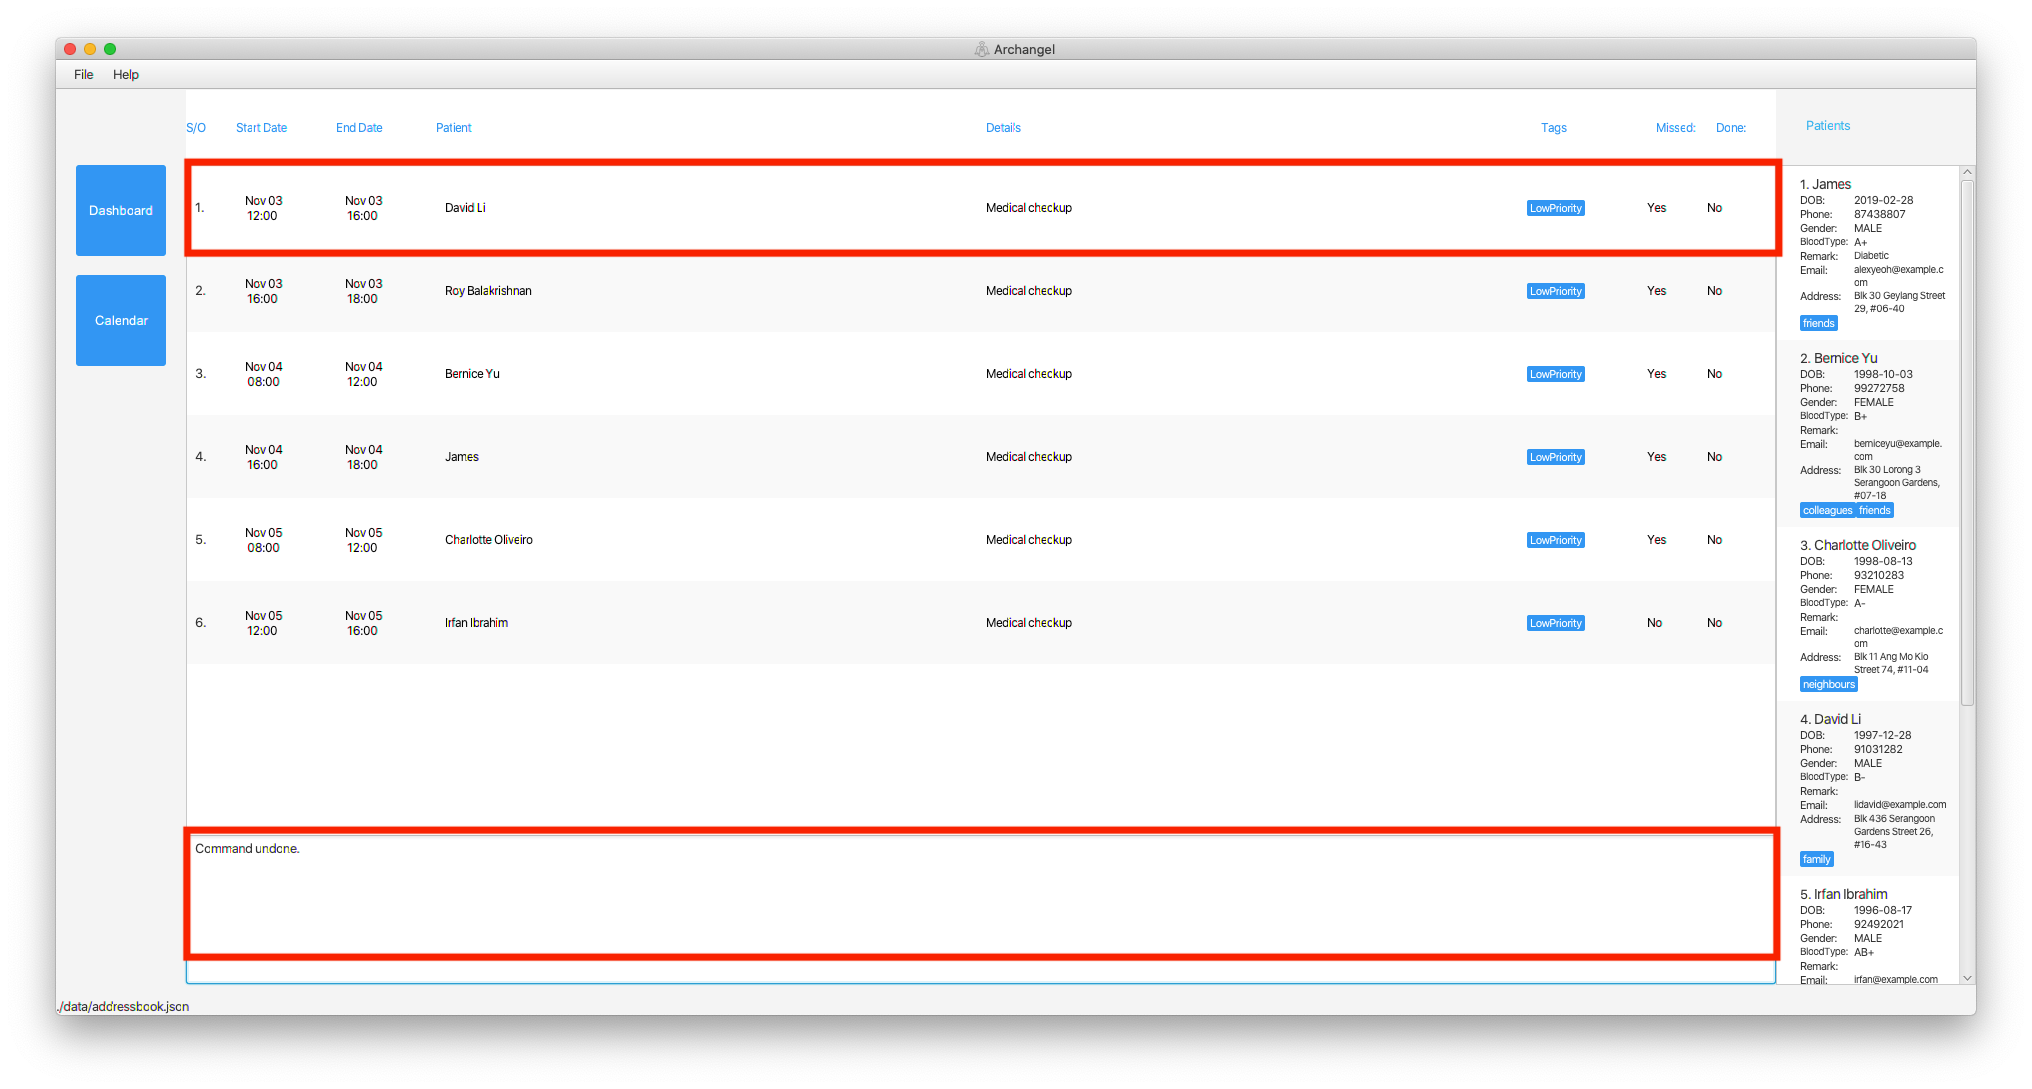
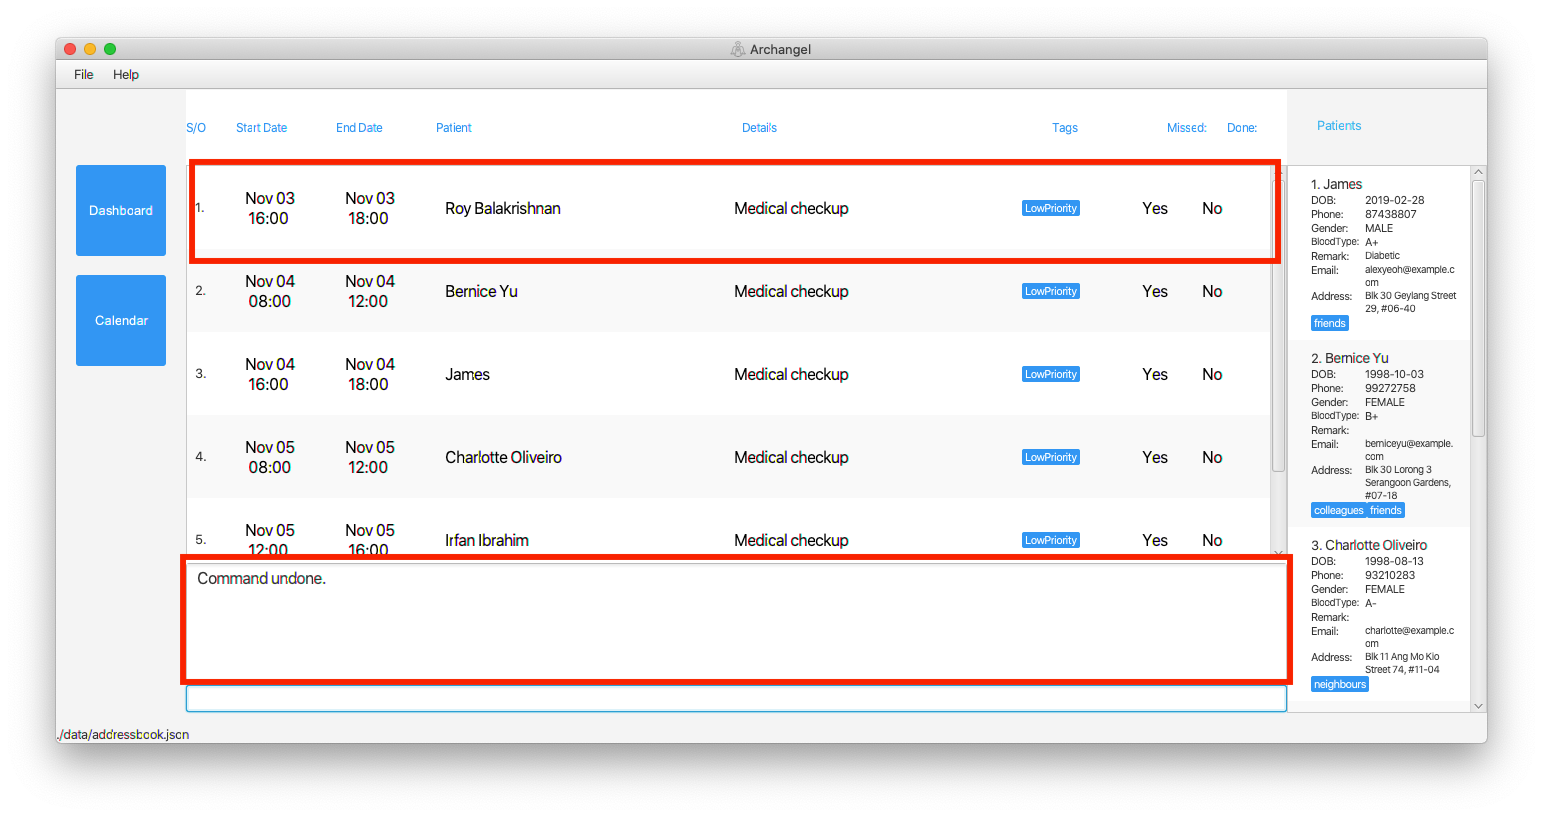
Update UG with new images

diff --git a/src/main/resources/view/WhiteBlueTheme.css b/src/main/resources/view/WhiteBlueTheme.css
@@ -18,11 +18,16 @@
 
 #appointmentStartTime, #appointmentEndTime, #patientName, #description, #description1, #isMissed, #isCompleted {
     -fx-text-fill: #000000;
-    -fx-font-size: 12;
+    -fx-font-size: 16;
 }
 
 #id1, #appointmentStartTime1, #appointmentEndTime1, #patientName1, #description2, #isMissed11, #isMissed1,
 #isCompleted1 {
     -fx-text-fill: #2196F3;
     -fx-font-size: 12;
+}
+
+#resultDisplay {
+    -fx-font-size: 16;
+
 }
